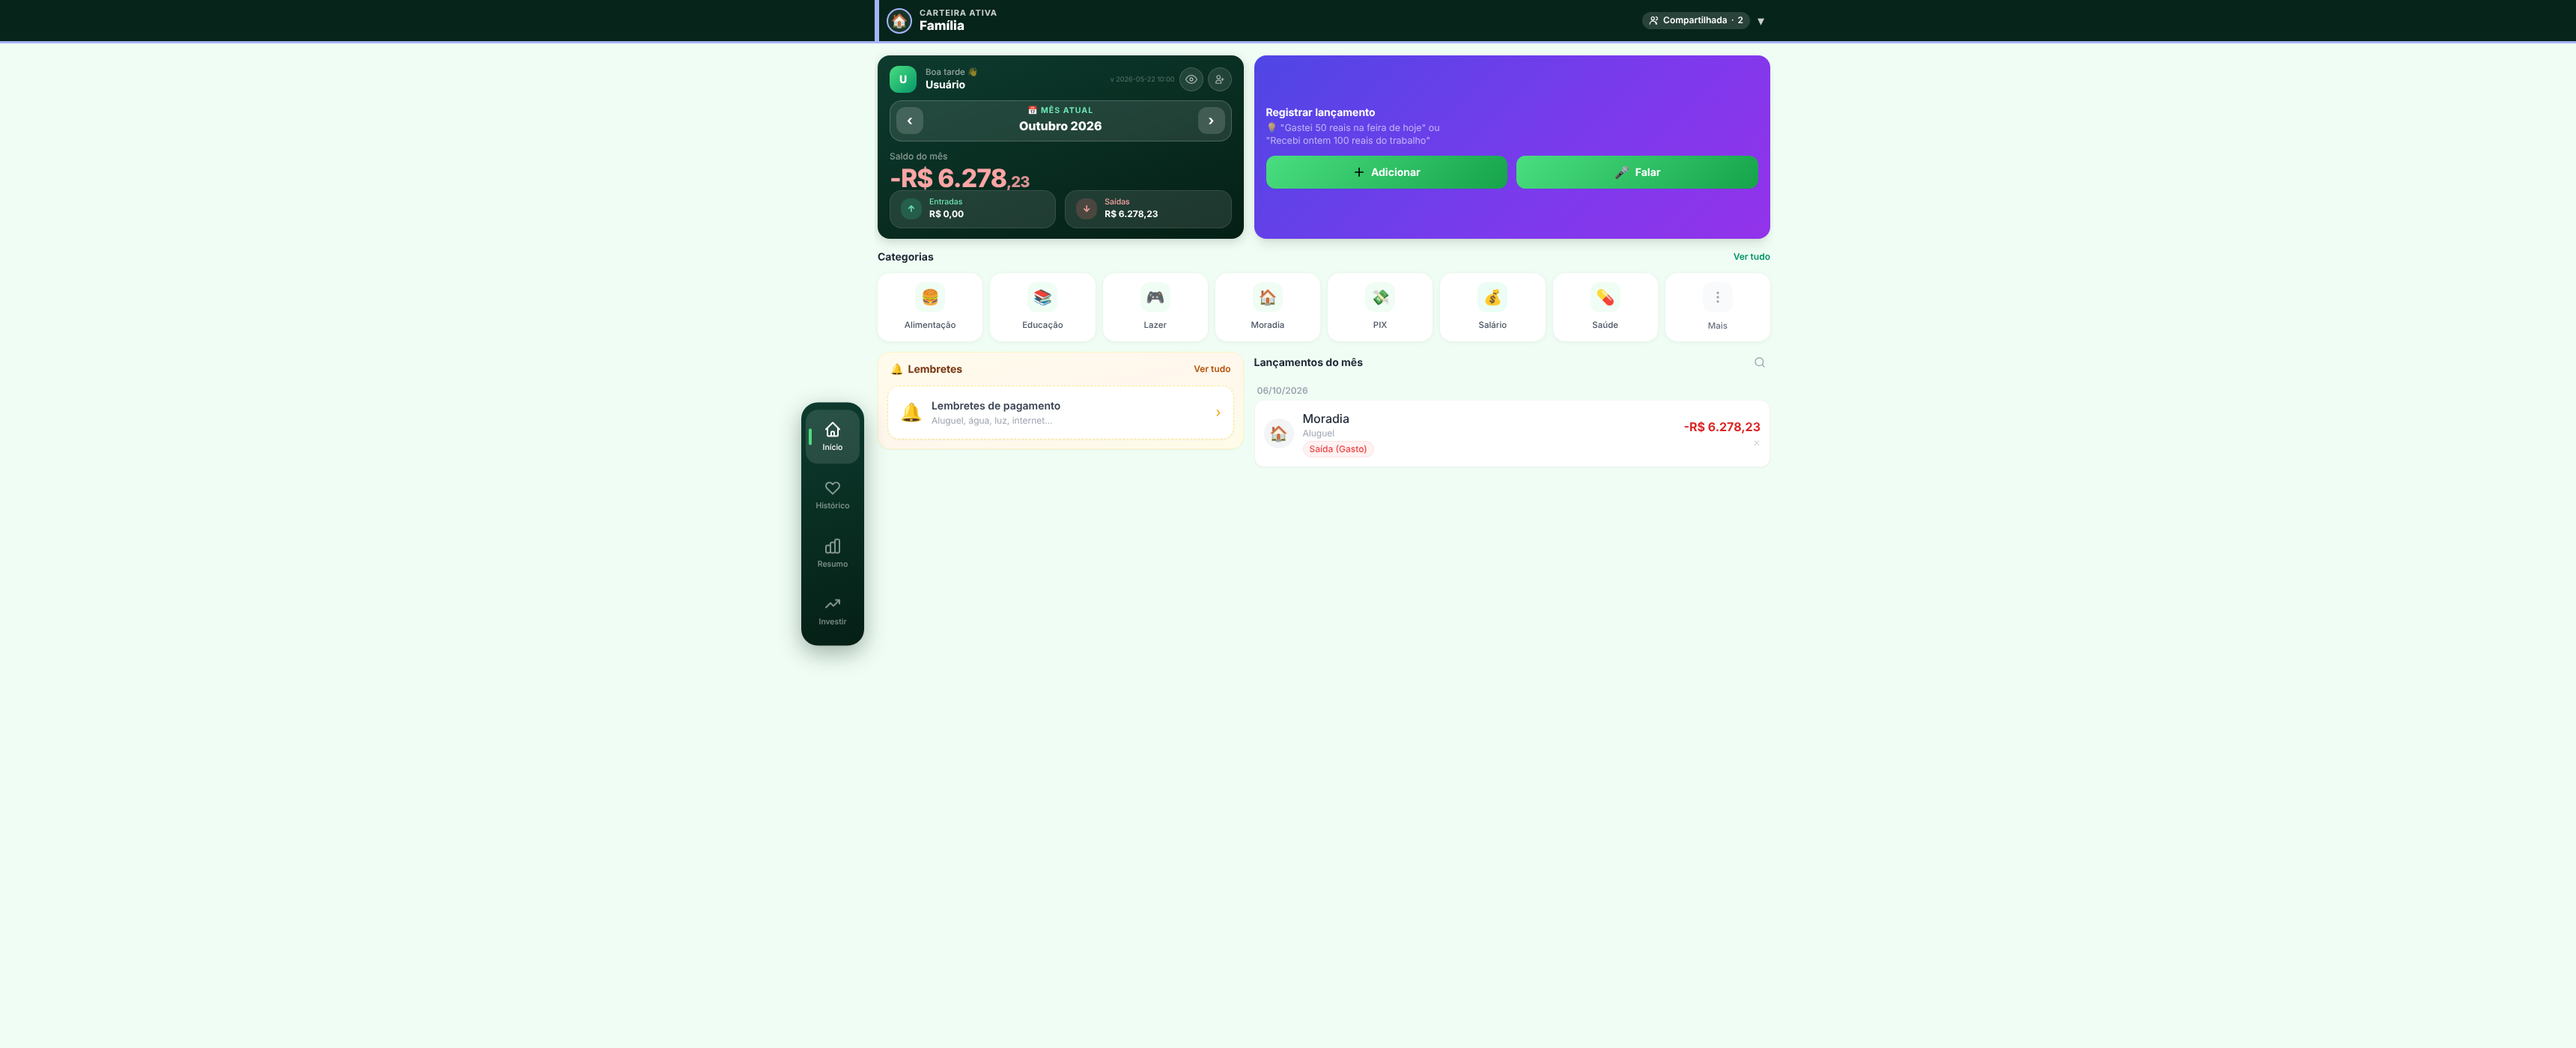
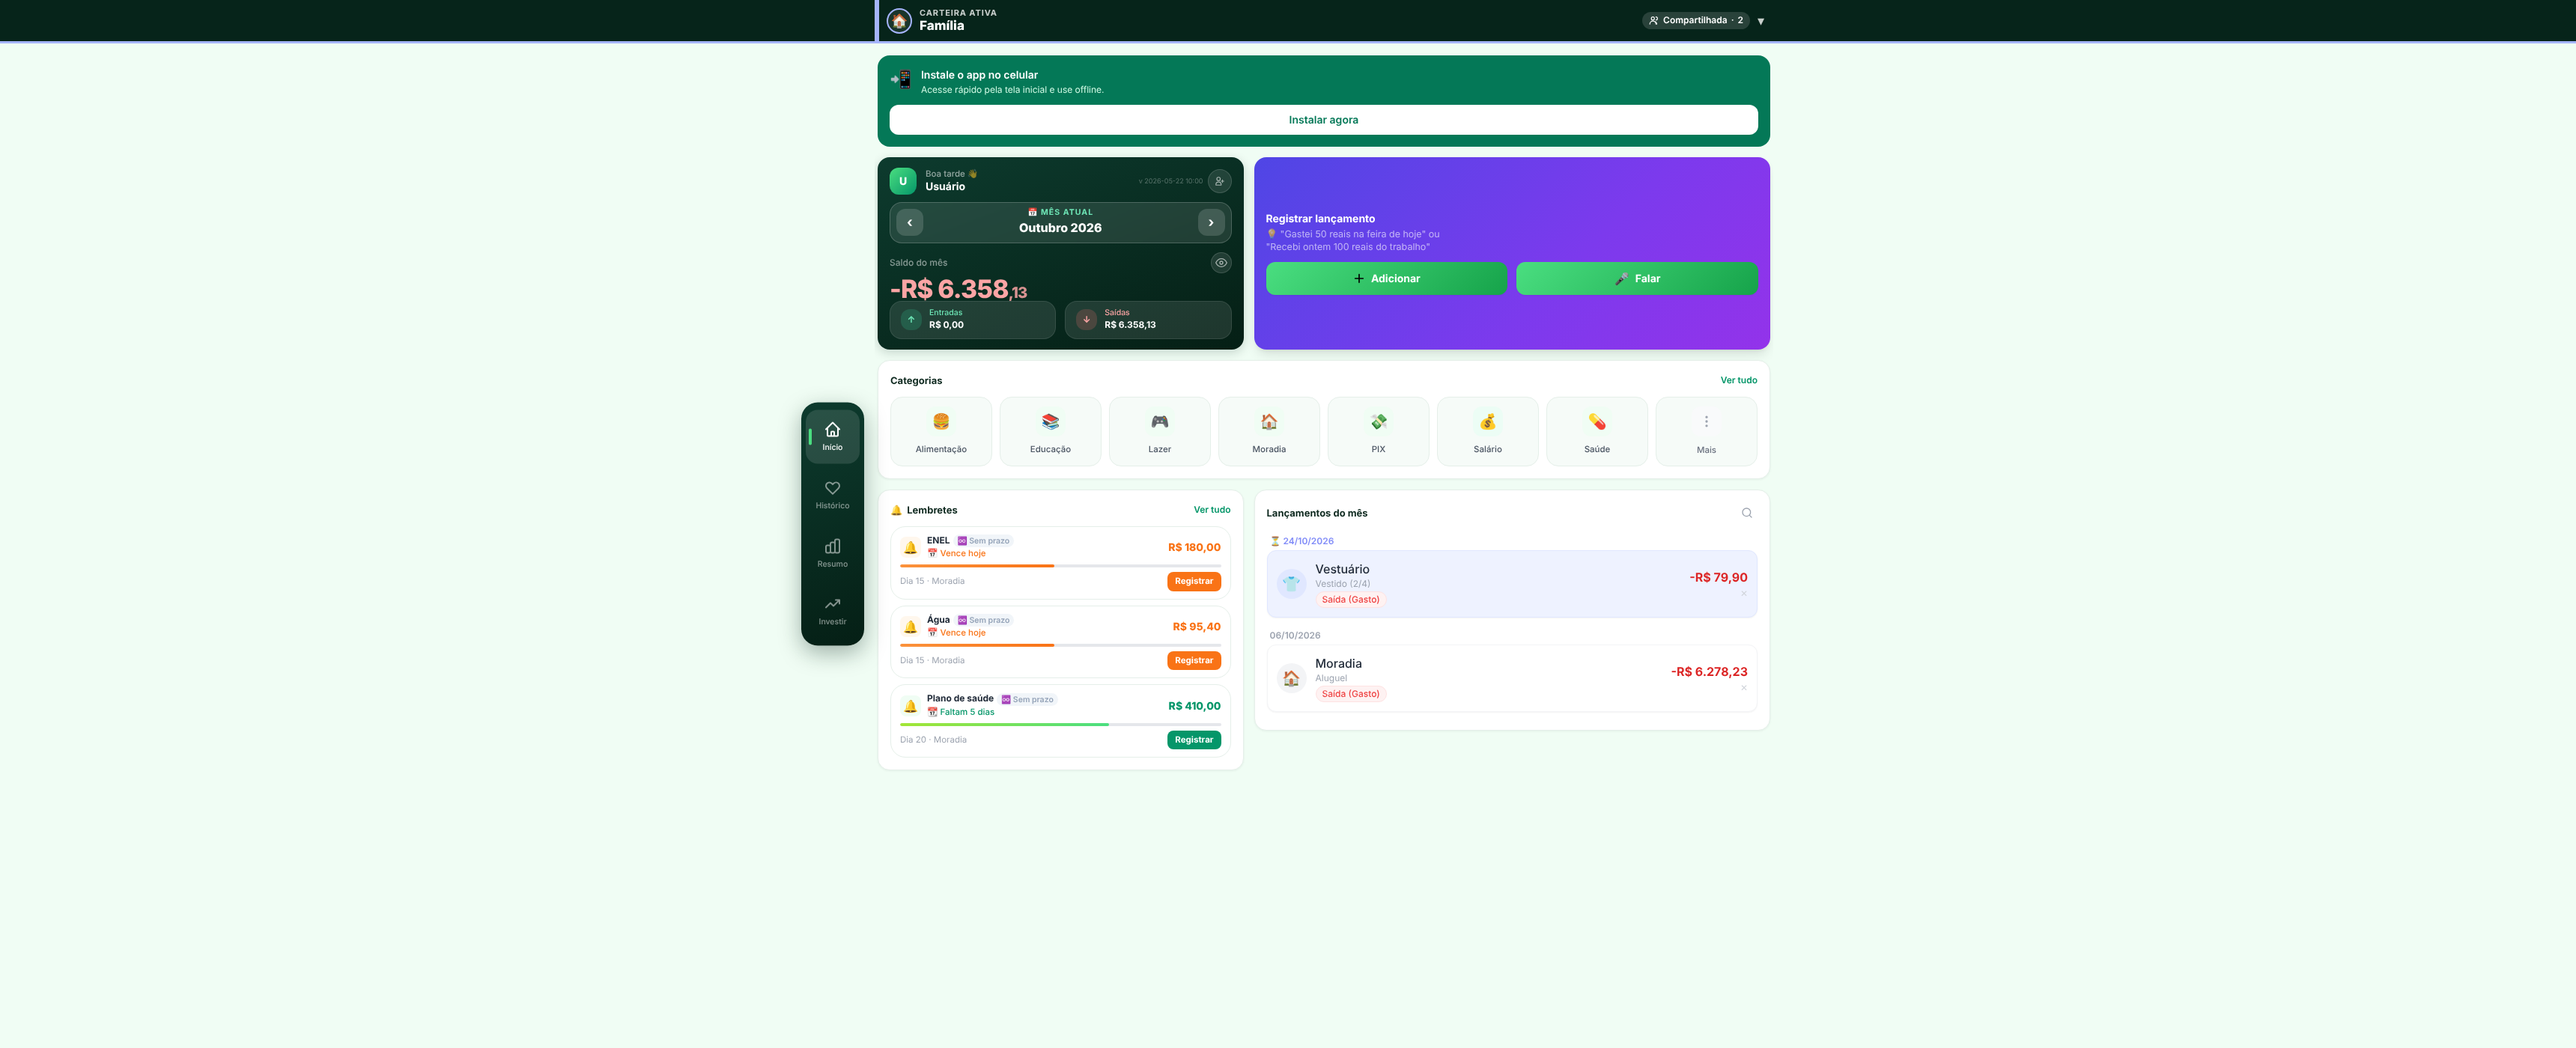
Inicio padronizada no desktop; botao do olho junto do saldo; ocultar valores nao afeta lancamentos
Claude-Session: https://claude.ai/code/session_01JewQ8trhSa9wiUKcrnXNgv

diff --git a/index.html b/index.html
@@ -186,6 +186,20 @@
             #quick-cats-grid { grid-template-columns: repeat(8, minmax(0, 1fr)) !important; }
             #tab-home .home-rem { grid-column: span 5; align-self: start; }
             #tab-home .home-lan { grid-column: span 7; align-self: start; }
+            /* Padronização: banners numa linha própria no topo; saldo e registrar com a mesma altura; os 4 blocos (categorias, lembretes,
+               lançamentos) com o mesmo cartão (branco, borda, raio 16, padding 16) e o mesmo estilo de título */
+            #pwa-install-banner, #ios-install-banner { order: -1; }
+            #home-header, #tab-home .home-reg { align-self: stretch; }
+            #tab-home .home-cats, #tab-home .home-lan, #tab-home .home-rem {
+                background: #fff !important; border: 1px solid #e5efe9 !important; border-radius: 16px !important;
+                padding: 16px !important; box-shadow: 0 1px 3px rgba(6,36,26,.06) !important;
+            }
+            #tab-home .home-cats > div:first-child, #tab-home .home-rem > div:first-child, #tab-home .home-lan > div:first-child { margin-bottom: 12px !important; padding: 0 !important; }
+            #tab-home .home-cats > div:first-child p, #tab-home .home-rem > div:first-child p, #home-section-label { font-size: 13px !important; font-weight: 700 !important; color: #0f2a20 !important; }
+            #open-categories-btn, #reminders-manage-link { color: #059669 !important; font-size: 12px !important; font-weight: 600 !important; }
+            #tab-home .home-cats .cat-card { background: #f6fbf8 !important; border: 1px solid #e5efe9 !important; box-shadow: none !important; }
+            #tab-home .home-rem .reminder-cards-wrap { grid-template-columns: minmax(0, 1fr) !important; }
+            #tab-home .home-rem .reminder-cards-wrap > * { box-shadow: none !important; border: 1px solid #e5efe9 !important; }
             /* Histórico, Resumo e Investir: cabeçalho vira cartão arredondado dentro da coluna */
             #tab-history { padding: 16px 4px 32px; }
             #tab-history > .sticky { position: static; border: 1px solid #e5efe9; border-radius: 16px; }
@@ -293,7 +307,7 @@
         .wallet-badge-active { flex: none; font-size: 11px; font-weight: 800; color: #06241a; background: var(--wallet-accent, #64748b); border-radius: 9999px; padding: 3px 10px; }
     </style>
     <!-- Tailwind compilado no build (npm run build:css) — depois do <style> acima, como o CDN anterior (que anexava seu <style> ao fim do <head>) -->
-    <link rel="stylesheet" href="css/app.css?v=20261107a">
+    <link rel="stylesheet" href="css/app.css?v=20261108a">
 </head>
 <body class="max-w-md mx-auto min-h-screen relative" style="background:var(--clr-bg)">
 
@@ -436,7 +450,6 @@
             </div>
             <div class="flex items-center gap-1.5 flex-shrink-0">
                 <span id="app-version-label" style="font-size:9px;color:rgba(255,255,255,0.3)"></span>
-                <button id="hide-values-btn" type="button" aria-pressed="false" aria-label="Ocultar valores" title="Ocultar valores" class="w-8 h-8 rounded-full bg-white/10 border border-white/15 flex items-center justify-center text-white/60 hover:bg-white/20 transition-all"></button>
                 <button id="financa-share-btn" class="w-8 h-8 rounded-full bg-white/10 border border-white/15 flex items-center justify-center text-white/60 hover:bg-white/20 transition-all" title="Convidar membros">
                     <svg class="w-3.5 h-3.5" fill="none" viewBox="0 0 24 24" stroke="currentColor" stroke-width="2">
                         <path stroke-linecap="round" stroke-linejoin="round" d="M18 9v3m0 0v3m0-3h3m-3 0h-3m-2-5a4 4 0 11-8 0 4 4 0 018 0zM3 20a6 6 0 0112 0v1H3v-1z"/>
@@ -461,7 +474,10 @@
         </div>
 
         <!-- Row 3: Saldo + balance -->
-        <p class="text-xs text-white/50 font-medium mb-1">Saldo do mês</p>
+        <div class="flex items-center justify-between mb-1">
+            <p class="text-xs text-white/50 font-medium">Saldo do mês</p>
+            <button id="hide-values-btn" type="button" aria-pressed="false" aria-label="Ocultar valores" title="Ocultar valores" class="w-7 h-7 rounded-full bg-white/10 border border-white/15 flex items-center justify-center text-white/60 hover:bg-white/20 transition-all"></button>
+        </div>
         <div id="balance" class="text-4xl font-extrabold text-white tracking-tight leading-none mb-4">R$ 0,00</div>
 
         <!-- Row 6: Income / Expense cards -->
@@ -2050,7 +2066,7 @@
 <script src="js/insights.js?v=20261027b"></script>
 <script src="js/cofrinhos.js?v=20261105a"></script>
 <script src="js/push.js?v=20261027b"></script>
-<script src="js/app.js?v=20261106a"></script>
+<script src="js/app.js?v=20261108a"></script>
 
 <script>
 // ── Service Worker + PWA ──────────────────────────────────────────────────────

diff --git a/tests/static/hide-values.test.js b/tests/static/hide-values.test.js
@@ -1,4 +1,4 @@
-// Botão "ocultar valores" da tela inicial (jsdom): máscara em saldo, entradas, saídas, lista e lembretes; preferência persistida.
+// Botão "ocultar valores" da tela inicial (jsdom): máscara em saldo, entradas, saídas e lembretes (NÃO nos lançamentos); preferência persistida.
 'use strict';
 const test = require('node:test');
 const assert = require('node:assert/strict');
@@ -9,21 +9,21 @@ const r = spawnSync(process.execPath, [path.join(__dirname, 'hide-values-runner.
 const o = JSON.parse((r.stdout || '').trim().split('\n').pop() || '{}');
 const n = t => t.replace(/\s/g, ' ');   // formatCurrency usa espaço não separável após "R$"
 const temValor = t => /R\$\s*\d|\d+,\d{2}/.test(t);
-const todos = h => [h.saldo, h.entradas, h.saidas, h.lista, h.lembretes];
+const todos = h => [h.saldo, h.entradas, h.saidas, h.lembretes];   // os lançamentos ficam de fora de propósito
 
 test('o runner jsdom terminou sem erro', () => { assert.equal(r.status, 0, r.stderr + (o.erro || '')); });
 
-test('botão na tela inicial, com aria-pressed e rótulo; começa mostrando os valores', () => {
+test('botão na tela inicial, ao lado do "Saldo do mês", com aria-pressed e rótulo; começa mostrando os valores', () => {
   assert.ok(o.botao.existe && o.botao.ehButton && o.botao.naHome);
+  assert.equal(o.botao.pertoDoSaldo, true, 'o botão deve ficar na mesma linha do rótulo "Saldo do mês"');
   assert.equal(o.visivel.pressed, 'false'); assert.equal(o.visivel.rotulo, 'Ocultar valores'); assert.equal(o.visivel.icone, 'olho');
   assert.equal(n(o.visivel.saldo), '-R$ 6.378,23'); assert.equal(n(o.visivel.saidas), 'R$ 6.378,23');
   assert.ok(temValor(o.visivel.lista) && temValor(o.visivel.lembretes));
 });
 
-test('ligado: saldo, entradas, saídas, valores da lista (inclusive "Total" do parcelamento) e dos lembretes viram •••••; nenhum número vaza', () => {
+test('ligado: saldo, entradas, saídas e valores dos lembretes viram •••••; nenhum número vaza deles', () => {
   assert.equal(o.oculto.saldo, 'R$ •••••'); assert.equal(o.oculto.entradas, '•••••'); assert.equal(o.oculto.saidas, '•••••');
   for (const t of todos(o.oculto)) assert.equal(temValor(t), false, 'valor vazou: ' + t.replace(/\s+/g, ' ').slice(0, 120));
-  assert.match(o.oculto.lista, /Total •••••/);
   assert.equal(o.oculto.pressed, 'true'); assert.equal(o.oculto.rotulo, 'Mostrar valores'); assert.equal(o.oculto.icone, 'olho-cortado');
 });
 
@@ -36,6 +36,8 @@ test('preferência guardada no aparelho (localStorage) e mantida ao redesenhar a
   assert.equal(o.denovoVisivel.guardado, '0'); assert.equal(o.denovoVisivel.pressed, 'false'); assert.equal(n(o.denovoVisivel.saldo), '-R$ 6.378,23');
 });
 
-test('só a tela inicial é afetada: o Histórico continua mostrando os valores', () => {
+test('os lançamentos NÃO são ocultados (valor e "Total" do parcelamento continuam visíveis na Início); o Histórico também', () => {
+  assert.ok(temValor(o.oculto.lista) && /Total R\$/.test(n(o.oculto.lista)), 'lançamentos ocultados: ' + o.oculto.lista.replace(/\s+/g, ' ').slice(0, 120));
+  assert.equal(n(o.oculto.lista), n(o.visivel.lista));
   assert.ok(temValor(o.historico), 'histórico: ' + o.historico.slice(0, 80));
 });

diff --git a/scripts/visual/desktop-layout.js b/scripts/visual/desktop-layout.js
@@ -19,7 +19,7 @@ const server = http.createServer((req, res) => {
   if (!f.startsWith(ROOT) || !fs.existsSync(f) || !fs.statSync(f).isFile()) { res.writeHead(404); return res.end(); }
   res.writeHead(200, { 'Content-Type': MIME[path.extname(f)] || 'application/octet-stream', 'Cache-Control': 'no-store' }); fs.createReadStream(f).pipe(res);
 });
-const SIZES = [[1024, 768], [1280, 800], [1366, 768], [1440, 900], [1920, 1080], [2560, 1300], [3440, 1400]];
+const SIZES = [[1024, 768], [1100, 885], [1280, 800], [1366, 768], [1440, 900], [1920, 1080], [2560, 1300], [3440, 1400]];
 (async () => {
   await new Promise(r => server.listen(0, '127.0.0.1', r));
   const base = `http://127.0.0.1:${server.address().port}`;
@@ -54,6 +54,10 @@ const SIZES = [[1024, 768], [1280, 800], [1366, 768], [1440, 900], [1920, 1080],
       await App.loadFinancas(); await App.refreshWalletMembers();
       const ym = Utils.monthKeyLocal();
       await Storage.addTransaction({ type: 'saida', description: 'Aluguel', value: 6278.23, date: ym + '-06', category: 'Moradia' });
+      for (const [n, d2, v] of [['ENEL', 15, 180], ['Água', 15, 95.4], ['Plano de saúde', 20, 410]]) await Storage.createReminder({ name: n, day: d2, amount: v, category: 'Moradia', type: 'saida', emoji: '🔔' });
+      await Storage.addTransaction({ type: 'saida', description: 'Vestido (2/4)', value: 79.9, date: ym + '-24', category: 'Vestuário' });
+      await App.loadReminders();
+      document.getElementById('pwa-install-banner')?.classList.remove('hidden');   // pior caso: banner de instalação visível
       await App.renderHome();
     });
     await page.waitForTimeout(300);

diff --git a/js/app.js b/js/app.js
@@ -4179,7 +4179,6 @@ const App = {
     },
 
     renderTransactionList(containerId, transactions, highlight = '') {
-        const hide = containerId === 'home-transactions' && this.hideValues;   // "ocultar valores" vale só para a tela inicial
         const container = document.getElementById(containerId);
         if (!container) return;
         if (!transactions.length) {
@@ -4265,8 +4264,8 @@ const App = {
                         ${this.getInserterBadge(t)}
                     </div>
                     <div class="flex flex-col items-end gap-0.5">
-                        ${t.installment_group_id && !isRecurring ? `<div class="text-xs text-gray-400 font-normal">Total ${hide ? this.HIDDEN_MONEY : this.formatCurrency(t.value * t.installment_total)}</div>` : ''}
-                        <div class="font-bold ${color}">${hide ? this.HIDDEN_MONEY : sign + this.formatCurrency(t.value)}</div>
+                        ${t.installment_group_id && !isRecurring ? `<div class="text-xs text-gray-400 font-normal">Total ${this.formatCurrency(t.value * t.installment_total)}</div>` : ''}
+                        <div class="font-bold ${color}">${sign}${this.formatCurrency(t.value)}</div>
                         <button class="text-xs text-gray-300 hover:text-red-400 delete-btn" data-id="${t.id}" data-reminder-id="${t.reminder_id || ''}">✕</button>
                     </div>
                 </div>`;

diff --git a/tests/static/desktop-layout.test.js b/tests/static/desktop-layout.test.js
@@ -37,3 +37,11 @@ test('menu lateral flutuante: encostado na coluna, centralizado na vertical, com
   assert.match(m[1], /top: 50% !important/); assert.match(m[1], /translateY\(-50%\)/); assert.match(m[1], /border-radius: 22px/);
   assert.match(html, /#wallet-bar \{ margin-left: -96px !important; width: calc\(100% \+ 96px\) !important; padding-left: 96px !important; \}/);
 });
+
+test('Início padronizada: banners no topo, saldo e registrar com a mesma altura, 3 blocos com o mesmo cartão e título, lembretes em 1 coluna', () => {
+  assert.match(html, /#pwa-install-banner, #ios-install-banner \{ order: -1; \}/);
+  assert.match(html, /#home-header, #tab-home \.home-reg \{ align-self: stretch; \}/);
+  assert.match(html, /#tab-home \.home-cats, #tab-home \.home-lan, #tab-home \.home-rem \{[^}]*border-radius: 16px !important;[^}]*padding: 16px !important;/);
+  assert.match(html, /#open-categories-btn, #reminders-manage-link \{ color: #059669 !important;/);
+  assert.match(html, /#tab-home \.home-rem \.reminder-cards-wrap \{ grid-template-columns: minmax\(0, 1fr\) !important; \}/);
+});

diff --git a/tests/static/hide-values-runner.js b/tests/static/hide-values-runner.js
@@ -30,7 +30,7 @@ const ico = () => btn().innerHTML.includes('M1 1l22 22') ? 'olho-cortado' : 'olh
 
 (async () => {
   App.bindFinancaUI();
-  out.botao = { existe: !!btn(), ehButton: btn().tagName === 'BUTTON', naHome: !!d.getElementById('tab-home').contains(btn()) };
+  out.botao = { existe: !!btn(), ehButton: btn().tagName === 'BUTTON', naHome: !!d.getElementById('tab-home').contains(btn()), pertoDoSaldo: /Saldo do mês/.test(btn().parentElement.textContent) };
   await App.renderHome();
   out.visivel = { ...home(), pressed: btn().getAttribute('aria-pressed'), rotulo: btn().getAttribute('aria-label'), icone: ico() };
   btn().click(); await new Promise(r => setTimeout(r, 50));

diff --git a/sw.js b/sw.js
@@ -1,6 +1,6 @@
 // ─── Service Worker — Minhas Carteiras ──────────────────────────────────────────
 // APP_VERSION: 2026-10-06 12:00  ← atualizar junto com app.js a cada deploy
-const RUNTIME_CACHE = 'app-runtime-v20261106a';
+const RUNTIME_CACHE = 'app-runtime-v20261108a';
 
 self.addEventListener('install', e => {
     e.waitUntil(

diff --git a/docs/qa/RELATORIO-DESKTOP-COMPACTO.md b/docs/qa/RELATORIO-DESKTOP-COMPACTO.md
@@ -17,3 +17,8 @@ Só CSS/HTML de layout em `index.html` (tudo dentro de `@media (min-width: 1024p
 
 **Diferenças conscientes em relação ao protótipo:** o cartão "Registrar lançamento" do app tem só os botões Adicionar e Falar (sem campo de texto, como no app atual); lembretes e lançamentos usam os componentes reais.
 **Como reverter:** `git revert` do commit do layout; nada além de CSS/HTML estático é afetado.
+
+## Ajuste (padronização da Início + botão de ocultar valores)
+- **Padronização:** banner de instalação sempre numa linha própria no topo (antes empurrava o registrar para baixo e deixava um buraco ao lado do saldo); saldo e registrar com a mesma altura; categorias, lembretes e lançamentos com o mesmo cartão (branco, borda, raio 16, padding 16), o mesmo estilo de título e o mesmo "Ver tudo" verde; lembretes em 1 coluna dentro do cartão.
+- **Botão de olho** agora fica na linha do "Saldo do mês", perto dos saldos (celular e desktop).
+- **Ocultar valores NÃO afeta os lançamentos**: só saldo, entradas, saídas e valores dos lembretes viram •••••. (Se quiser os lembretes sempre visíveis também, é uma linha.)
